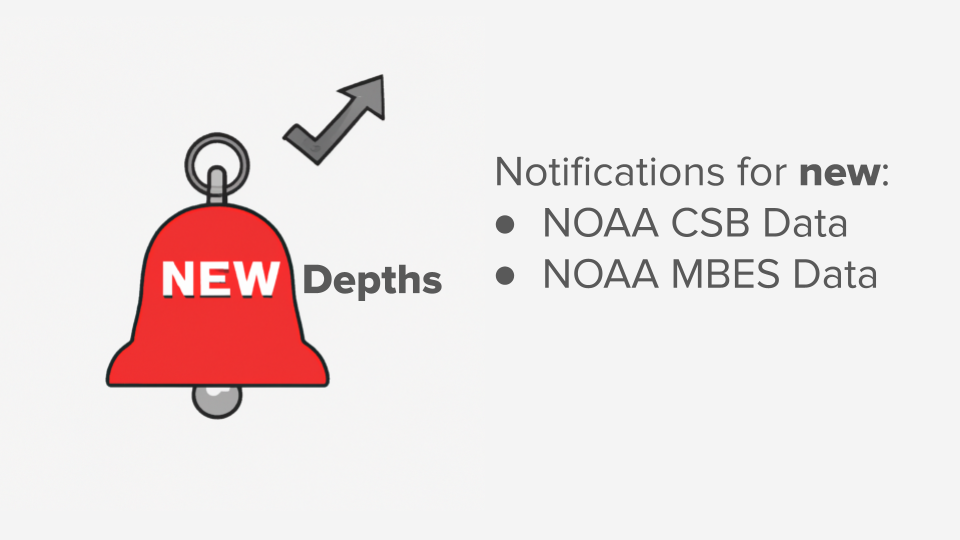
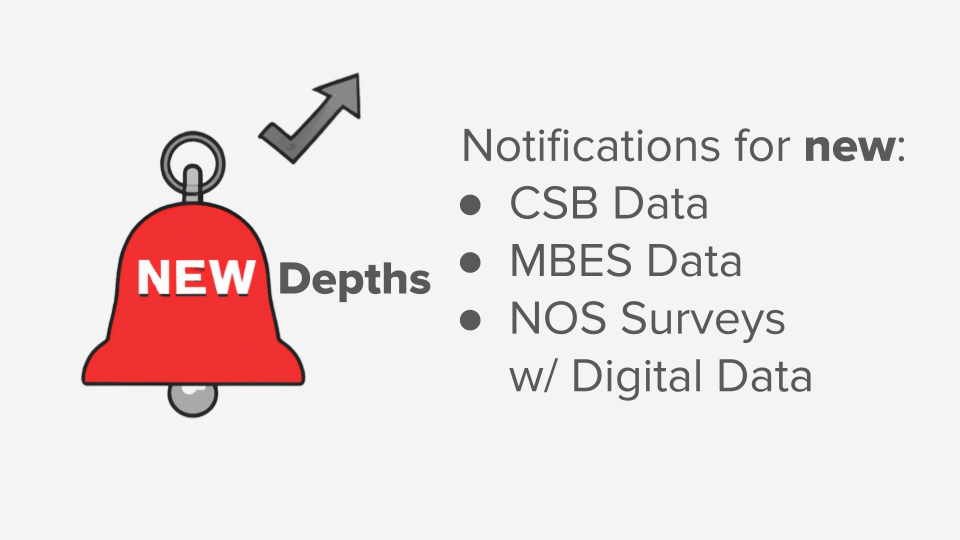
Add NOS survey data fetcher

diff --git a/backend/templates/shared/_layout.html b/backend/templates/shared/_layout.html
@@ -12,6 +12,7 @@
     <meta property="twitter:card" content="summary" />
     <meta property="twitter:site" content="@Heath_Henley" />
     <meta property="twitter:title" content="NewDepths.xyz" />
+    <meta property="twitter:url" content="https://newdepths.xyz" />
     <meta property="twitter:description" content="Get email notifications when new Multibeam Echosounder or Crowd-sourced Bathymetry data becomes available from various public datasources." />
     <meta property="twitter:image" content="/static/social.png" />
     <meta property="og:title" content="NewDepths.xyz" />

diff --git a/backend/fetchers/data_fetchers.py b/backend/fetchers/data_fetchers.py
@@ -46,7 +46,7 @@ class SurveyDataList:
       return None
     return self.data[0].time
 
-
+# TODO(Heath): These fetchers can be dry'd up
 class DataFetcherBase:
   """ Base class for fetching data from the NOAA API.
   
@@ -139,6 +139,81 @@ class MultibeamDataFetcher(DataFetcherBase):
     return self._map_api_response_to_data_list(bbox, query_params, surveys)
 
 
+class NOSDataFetcher(DataFetcherBase):
+  """ Fetch from the NOAA API and map it to a common response format.
+  
+  Just going to make it easier to use in the rest of the app."""
+
+  def _get_query_params(self, bbox: models.BoundingBox, since: datetime | None):
+    """ Speficic query params for multibeam data. """
+    return {
+      'f': 'json',
+      'where': 'DATE_ADDED IS NOT NULL',
+      'geometry': bbox_to_envelope(bbox),
+      'geometryType': 'esriGeometryEnvelope',
+      'inSR': 4326,
+      'spatialRel': 'esriSpatialRelIntersects',
+      'outFields': 'SURVEY_ID,PLATFORM,DOWNLOAD_URL,DATE_ADDED',
+      'returnGeometry': False,
+      'orderByFields': 'DATE_ADDED DESC'
+    }
+  
+  def _get_data_from_noaa_api(
+    self, url: str, query_params: dict, bbox: models.BoundingBox) -> str | None:
+    """ Make the actual request to the NOAA API. """
+    try:
+      res = requests.get(url, params=query_params, timeout=60)
+      if res.status_code != 200:
+        raise Exception(f"Bad response from NOAA: {res.status_code}")
+    except Exception as e:
+      logging.error(f"Error getting data for bbox {bbox.id}: {e}")
+      return None
+    return res.json()
+
+  def _map_api_response_to_data_list(
+      self,
+      bbox: models.BoundingBox,
+      query_params: dict,
+      surveys: list[dict]) -> SurveyDataList:
+    """ Map the response from the NOAA API to a SurveyDataList. """
+    data = SurveyDataList(
+      json_url=build_url(self.base_url, query_params),
+      description=self.description,
+      bbox=bbox
+    )
+    for survey in surveys:
+      data.add(
+        time=datetime.fromtimestamp(
+          survey["attributes"]["DATE_ADDED"] / 1000.0),
+        download_url=survey["attributes"]["DOWNLOAD_URL"],
+        platform=survey["attributes"]["PLATFORM"],
+      )
+    return data
+ 
+  def get_data(
+      self,
+      bbox: models.BoundingBox,
+      since: datetime | None) -> SurveyDataList | None:
+    """ Fetch nos survey data from the NOAA API. """
+
+    query_params = self._get_query_params(bbox, since)
+    url = self.base_url
+
+    if not (new_data := self._get_data_from_noaa_api(url, query_params, bbox)):
+      return None
+    
+    if "error" in new_data:
+      logging.error(f"Error in multibeam bb:{bbox.id}: {new_data['error']}")
+      return None
+    
+    if not (surveys := new_data['features']):
+      logging.info(f"No new data for bbox {bbox.id}")
+      return None
+  
+    # we have data, need to map it to a SurveyDataList
+    return self._map_api_response_to_data_list(bbox, query_params, surveys)
+
+
 class CSBDataFetcher(DataFetcherBase):
   """ Fetch from the NOAA API and map it to a common response format.
   
@@ -158,7 +233,6 @@ class CSBDataFetcher(DataFetcherBase):
       'orderByFields': 'ARRIVAL_DATE DESC'
     }
 
-  
   def _get_data_from_noaa_api(
     self, url: str, query_params: dict, bbox: models.BoundingBox) -> str | None:
     """ Make the actual request to the NOAA API. """
@@ -221,6 +295,7 @@ def data_fetcher_factory(data_type: models.DataType) -> DataFetcherBase:
     "multibeam": MultibeamDataFetcher,
     "csb0": CSBDataFetcher,
     "csb1": CSBDataFetcher,
+    "nos_survey": NOSDataFetcher
   }
   return map_to_fetcher[data_type.name](
     data_type.base_url, data_type.name, data_type.description)

diff --git a/backend/seed.py b/backend/seed.py
@@ -12,28 +12,35 @@ def get_db():
 def main():
   NOAA_MULTIBEAM_URL = r"https://gis.ngdc.noaa.gov/arcgis/rest/services/web_mercator/multibeam_dynamic/MapServer/0/query"
   NOAA_CSB_POINTS_URL = r"https://gis.ngdc.noaa.gov/arcgis/rest/services/csb/MapServer/0/query"
+  NOAA_NOS_SURVEY_URL = r"https://gis.ngdc.noaa.gov/arcgis/rest/services/web_mercator/nos_hydro_dynamic/MapServer/1/query"
+
+  data_sources = [
+    {
+      "name": "multibeam",
+      "base_url": NOAA_MULTIBEAM_URL,
+      "description": "NOAA Multibeam Data"
+    },
+    {
+      "name": "csb0",
+      "base_url": NOAA_CSB_POINTS_URL,
+      "description": "NOAA CSB Data (points)"
+    },
+    {
+      "name": "nos_survey",
+      "base_url": NOAA_NOS_SURVEY_URL,
+      "description": "NOAA NOS Survey Data"
+    }
+  ]
 
   db = next(get_db())
 
   if not db:
     return 1
 
-  # add types to the db
-  res = db.query(models.DataType).filter_by(name="multibeam").first()
-  if not res:
-    db.add(models.DataType(name="multibeam", base_url=NOAA_MULTIBEAM_URL,
-      description="NOAA Multibeam Data"
-    ))
-  db.commit()
-
-  res = db.query(models.DataType).filter_by(name="csb0").first()
-  if not res:
-    db.add(
-      models.DataType(
-        name="csb0",
-        base_url=NOAA_CSB_POINTS_URL,
-        description="NOAA CSB Data (points)"
-    ))
+  for source in data_sources:
+    res = db.query(models.DataType).filter_by(name=source["name"]).first()
+    if not res:
+      db.add(models.DataType(**source))
   db.commit()
 
 

diff --git a/backend/worker.py b/backend/worker.py
@@ -110,6 +110,10 @@ def main():
   data_types = crud.get_data_types(db)
   bboxes = crud.get_all_bboxes(db)
 
+  if not data_types or not bboxes:
+    logging.error("No data types or bounding boxes found. Exiting.")
+    return 1
+  
   # we want to only notify each user once, so we'll use a defaultdict and track
   # all the new stuff they're interested in, then we can send just one
   # notification / email to each user

diff --git a/todo.md b/todo.md
@@ -1,5 +1,9 @@
 Backend
 - dry out 'get user from cookie' code into a dependency
+- dry out fetchers more
+  - they are all basically the same with different urls, different time
+    attributes (ARRIVAL_DATE, etc), and slightly different return attributes
+    (PLATFORM, DOWNLOAD_URL, etc) - so they just need to be parameterized a bit
 - set up db backups
 - set up db migrations (alembic?)
 - figure out query with since date included
